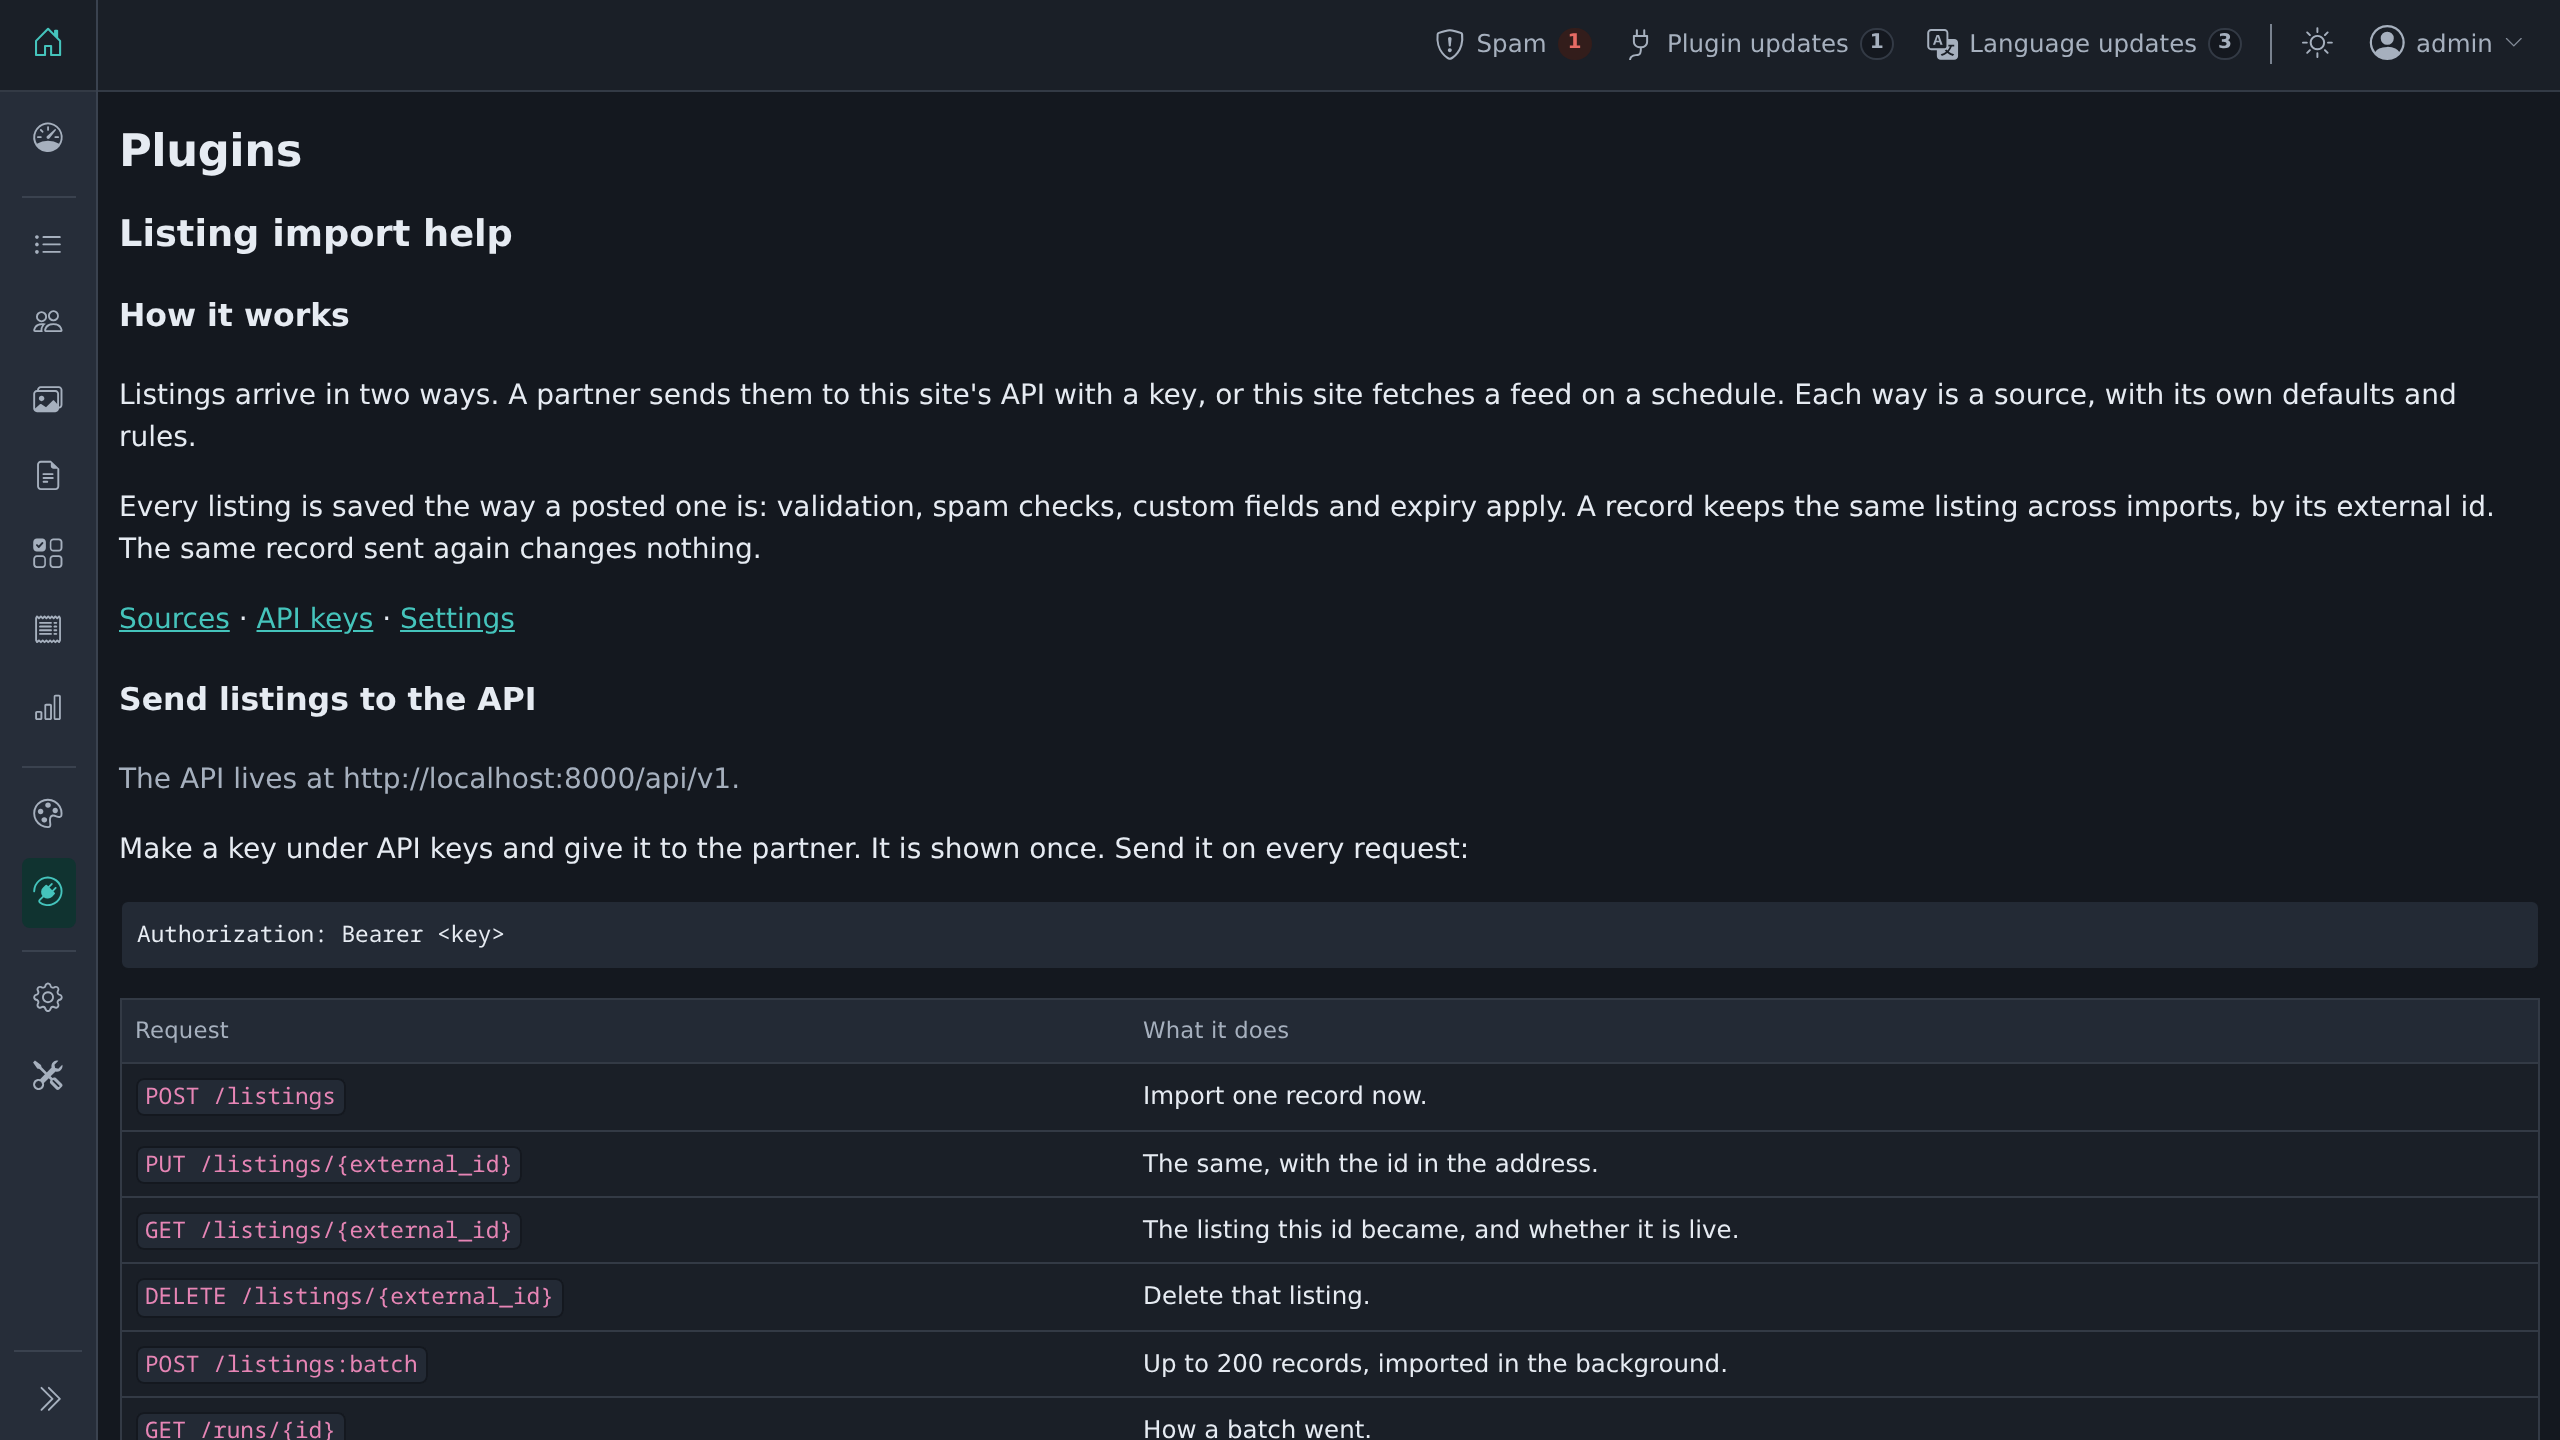
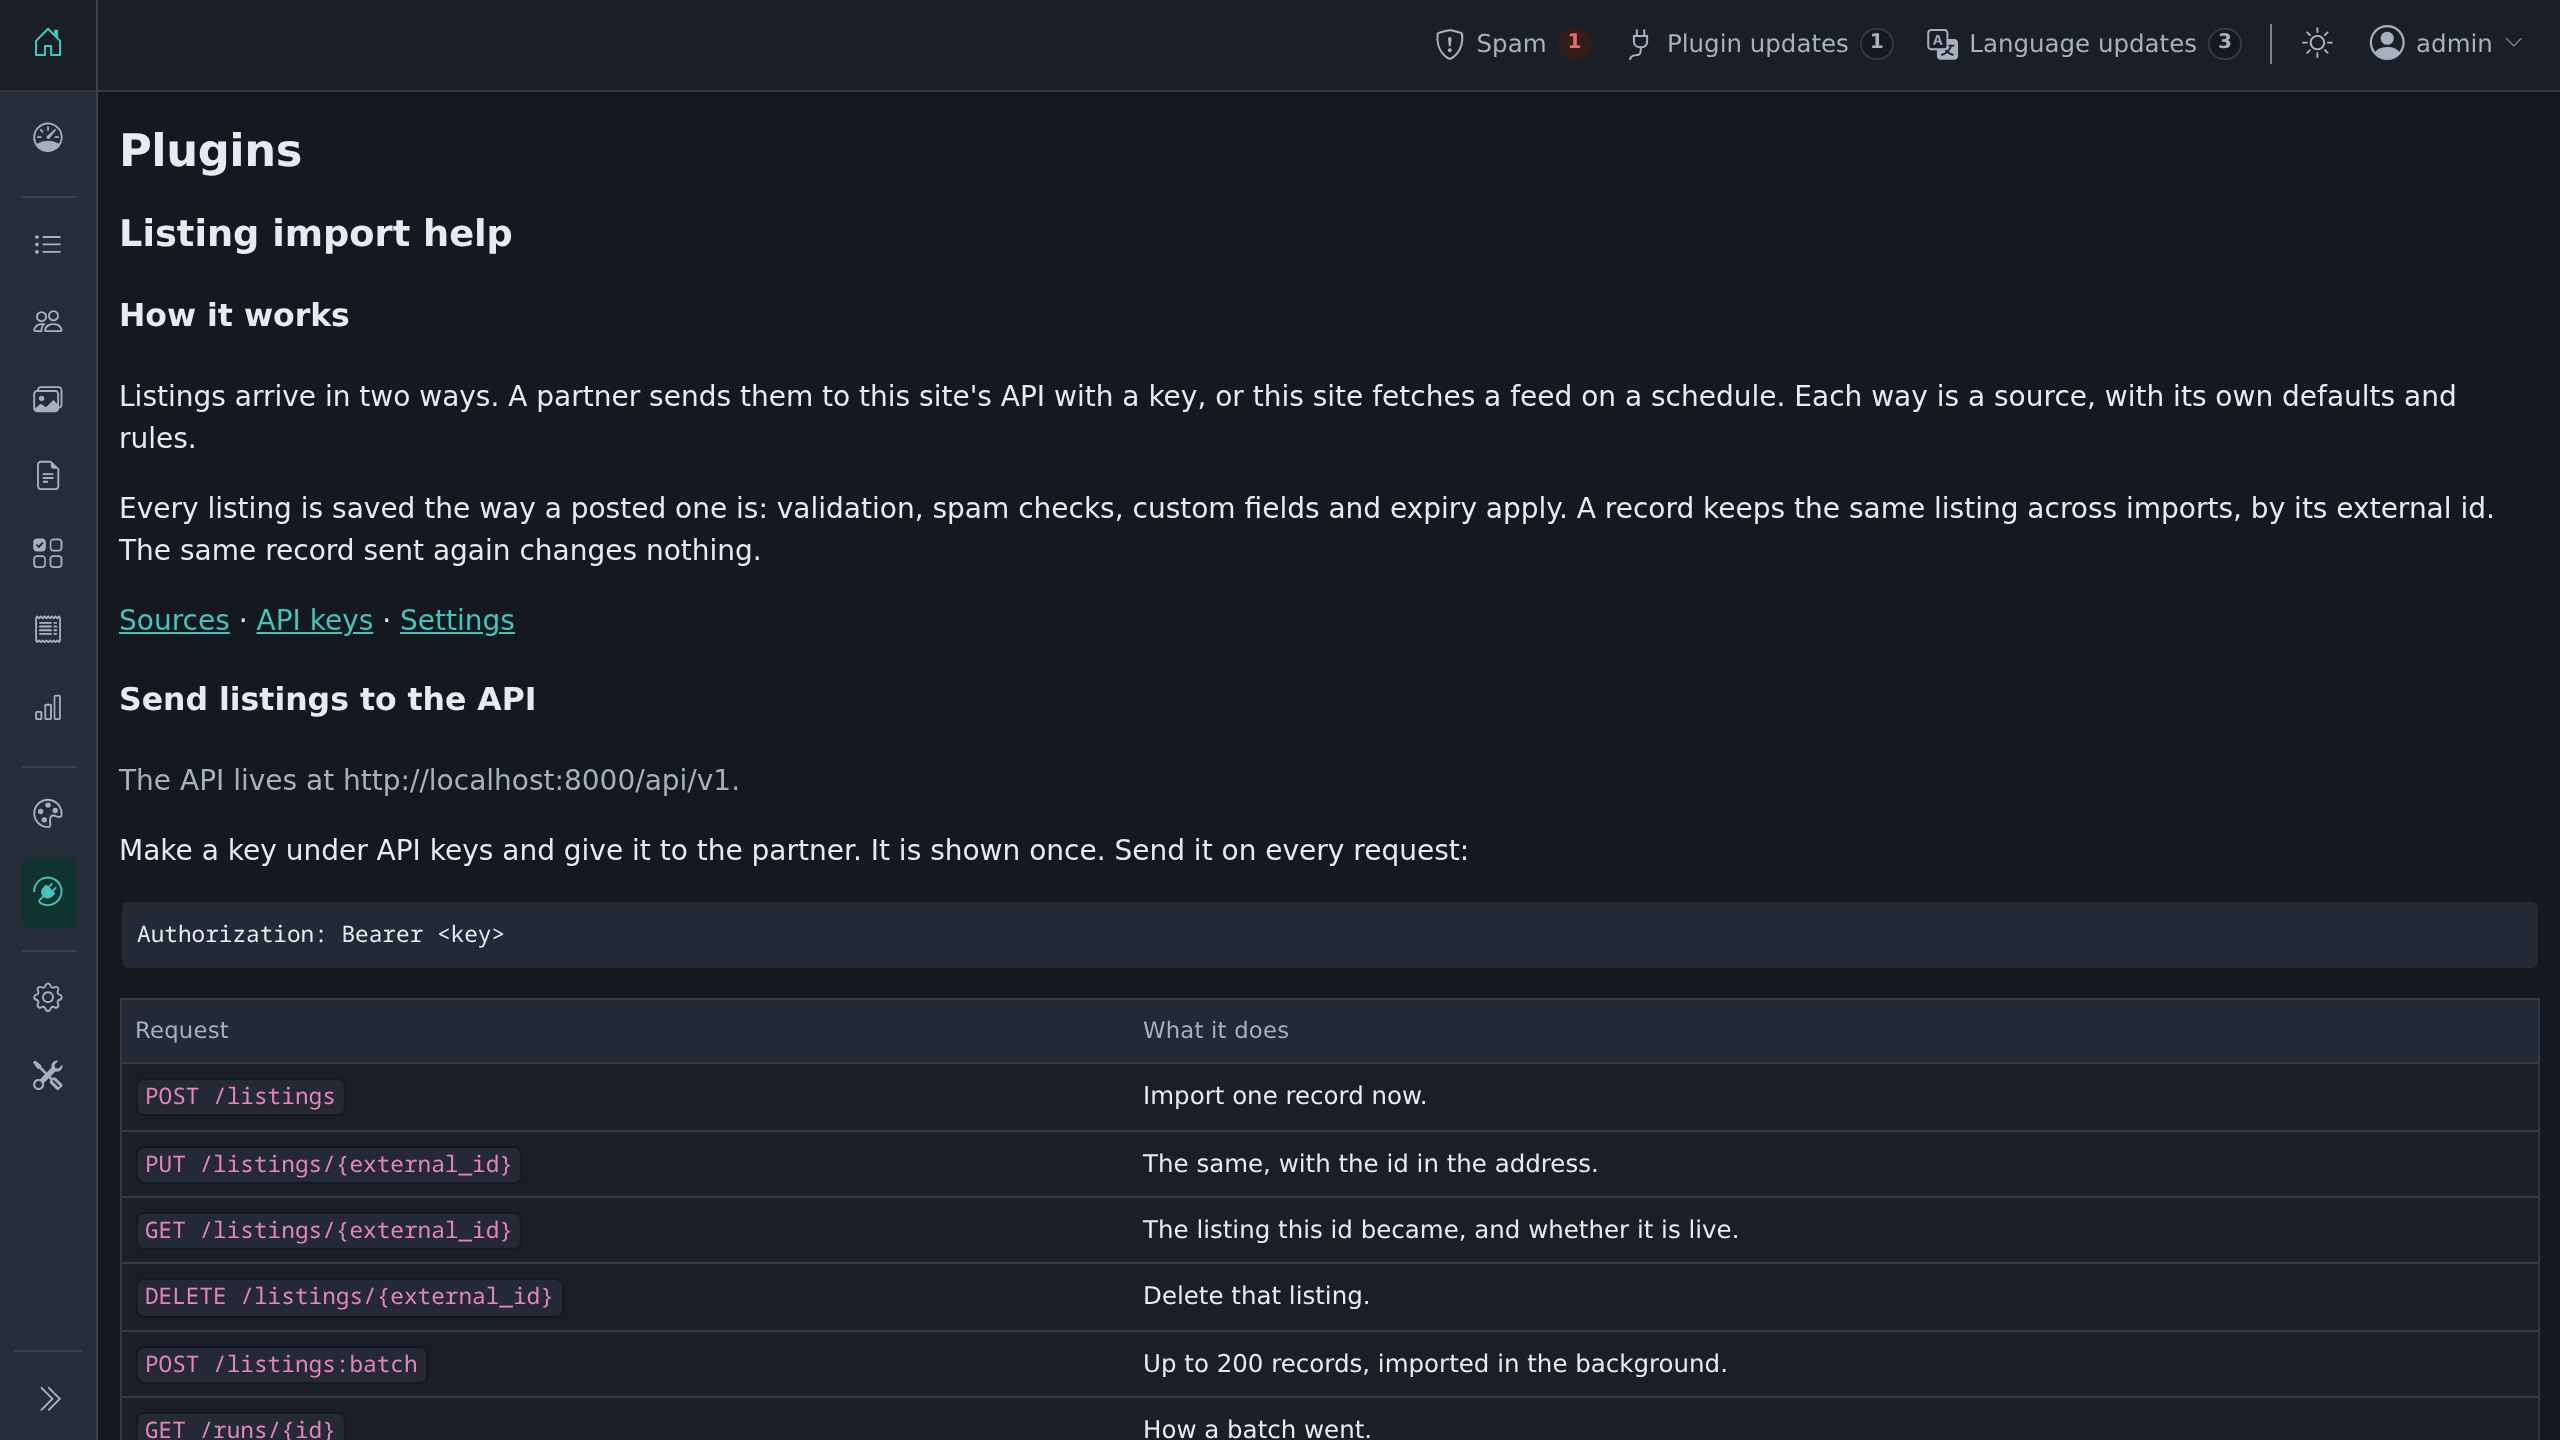
Help screen: a full record, curl examples with real answers, batches and runs, and every error code, in folding sections.

diff --git a/admin/help.php b/admin/help.php
@@ -64,21 +64,112 @@ osc_admin_form_section(__('Send listings to the API', 'listing-import'), array(
         array('GET /runs/{id}', __('How a batch went.', 'listing-import')),
         array('GET /openapi.json', __('The whole API as an OpenAPI file. No key needed.', 'listing-import')),
     )); ?>
-    <p><?php _e('The smallest record:', 'listing-import'); ?></p>
+    <p><?php _e('The smallest record. The external id is your own id: send it again and the same listing is updated. Always send the whole record; there is no partial update.', 'listing-import'); ?></p>
     <?php $code("{\n  \"external_id\": \"A-1001\",\n  \"title\": \"Blue bike\",\n  \"description\": \"A good bike, 21 gears.\",\n  \"category\": \"Vehicles > Bikes\"\n}"); ?>
-    <p><?php _e('Optional fields: price, location, contact, owner, images (up to 20 public addresses), fields (custom fields by slug), expires_at. A title and description may be given per language. Always send the whole record; there is no partial update.', 'listing-import'); ?></p>
 <?php
+osc_admin_disclosure_open(__('A record with every field', 'listing-import'));
+?>
+    <p><?php _e('Only external_id, title and description are required, and category when the source has no default one. A field the plugin does not know comes back as a warning; the record is still imported.', 'listing-import'); ?></p>
+    <?php $code(<<<'JSON'
+{
+  "external_id": "A-1001",
+  "title": {"en_US": "Blue bike", "de_DE": "Blaues Fahrrad"},
+  "description": {"en_US": "A good bike, 21 gears.", "de_DE": "Ein gutes Rad, 21 Gänge."},
+  "category": "Vehicles > Bikes",
+  "price": {"amount": "1.234,50", "currency": "EUR"},
+  "location": {
+    "country": "Germany", "region": "Bavaria", "city": "Munich",
+    "city_area": "Schwabing", "address": "Leopoldstraße 1", "zip": "80802",
+    "lat": 48.1624, "lng": 11.5865
+  },
+  "contact": {"name": "Sam Seller", "email": "sam@example.com", "phone": "+49 89 123456", "show_email": false},
+  "owner": {"email": "sam@example.com"},
+  "images": ["https://cdn.example.com/bike-1.jpg", "https://cdn.example.com/bike-2.jpg"],
+  "fields": {"colour": "Blue", "frame-size": 56},
+  "expires_at": "2026-12-31T23:59:59Z",
+  "published_at": "2026-09-01T10:00:00Z",
+  "source_url": "https://shop.example.com/bikes/a-1001"
+}
+JSON
+    ); ?>
+    <?php $table(array(__('Field', 'listing-import'), __('What it takes', 'listing-import')), array(
+        array('category', __('An id, a slug, a path such as "Vehicles > Bikes", or {"id"}, {"slug"}, {"path"} or {"label"}.', 'listing-import')),
+        array('price', __('amount as a number or as text such as "1.234,50"; currency as a three-letter code.', 'listing-import')),
+        array('location', __('Names are matched to the site\'s own countries, regions and cities. A place the site does not have is kept as text.', 'listing-import')),
+        array('owner', __('user_id or email of an account here. Used only when the source allows records to choose accounts.', 'listing-import')),
+        array('images', __('Up to 20 public http or https addresses. JPEG, PNG, GIF or WebP, 8 MB each. A refused image is a warning.', 'listing-import')),
+        array('fields', __('Custom field slug => text, number or true/false.', 'listing-import')),
+    )); ?>
+<?php
+osc_admin_disclosure_close();
+
+osc_admin_disclosure_open(__('Import one record', 'listing-import'));
+$code(sprintf(<<<'SH'
+curl -X POST %1$s/listings \
+  -H "Authorization: Bearer $KEY" \
+  -H "Content-Type: application/json" \
+  -d '{"external_id":"A-1001","title":"Blue bike","description":"A good bike, 21 gears.","category":"Vehicles > Bikes"}'
+SH
+, $apiUrl));
+?>
+    <p><?php _e('A new listing answers 201. The same record sent again answers 200 with the status unchanged, and a changed one with updated.', 'listing-import'); ?></p>
+    <?php $code('{"data":{"status":"created","external_id":"A-1001","item_id":294,"run_id":20}}'); ?>
+    <p><?php _e('Warnings, when there are any, come beside the data:', 'listing-import'); ?></p>
+    <?php $code('{"data":{"status":"created","external_id":"A-1001","item_id":294,"run_id":20},"warnings":{"colour":"Unknown field, ignored."}}'); ?>
+    <p><?php _e('PUT to /listings/{external_id} does the same, with the id in the address. An id in an address cannot hold a slash; encode other characters as usual.', 'listing-import'); ?></p>
+<?php
+osc_admin_disclosure_close();
+
+osc_admin_disclosure_open(__('Look up or delete a listing', 'listing-import'));
+$code(sprintf("curl %1\$s/listings/A-1001 \\\n  -H \"Authorization: Bearer \$KEY\"", $apiUrl));
+$code('{"data":{"external_id":"A-1001","item_id":294,"status":"active","url":"https://example.com/bikes/blue-bike_i294","last_seen":"2026-09-25 05:33:06","synced_at":"2026-09-25 05:33:06"}}');
+$code(sprintf("curl -X DELETE %1\$s/listings/A-1001 \\\n  -H \"Authorization: Bearer \$KEY\"", $apiUrl));
+$code('{"data":{"external_id":"A-1001","item_id":294,"deleted":true}}');
+?>
+    <p><?php _e('Deleting needs a key with the Remove listings permission.', 'listing-import'); ?></p>
+<?php
+osc_admin_disclosure_close();
+
+osc_admin_disclosure_open(__('Import many records at once', 'listing-import'));
+$code(sprintf(<<<'SH'
+curl -X POST %1$s/listings:batch \
+  -H "Authorization: Bearer $KEY" \
+  -H "Content-Type: application/json" \
+  -d '{"records":[{"external_id":"A-1001", ...}, {"external_id":"A-1002", ...}]}'
+SH
+, $apiUrl));
+?>
+    <p><?php _e('Up to 200 records. It answers 202 at once; the site\'s background jobs import them.', 'listing-import'); ?></p>
+    <?php $code('{"data":{"run_id":23,"records":2,"status":"queued"}}'); ?>
+    <p><?php _e('Ask how the run went. It needs a key with the Read import results permission.', 'listing-import'); ?></p>
+    <?php $code(sprintf("curl %1\$s/runs/23 \\\n  -H \"Authorization: Bearer \$KEY\"", $apiUrl)); ?>
+    <?php $code('{"data":{"run_id":23,"status":"finished","records":2,"counts":{"created":1,"updated":0,"unchanged":0,"retired":0,"failed":1},"started_at":"2026-09-25 05:33:06","finished_at":"2026-09-25 05:33:07","failures":[{"external_id":"A-1002","errors":{"description":"Required."}}]}}'); ?>
+<?php
+osc_admin_disclosure_close();
+
+osc_admin_disclosure_open(__('When a request is refused', 'listing-import'));
+?>
+    <p><?php _e('Every error has the same shape. For a record, fields says what is wrong with each one, so it can be fixed in one go.', 'listing-import'); ?></p>
+    <?php $code('{"error":{"code":"not_imported","message":"The record was not imported; see fields.","fields":{"description":"Required."}}}'); ?>
+<?php
+osc_admin_disclosure_close();
 
 osc_admin_form_section(__('Answers and limits', 'listing-import'), array('spaced' => true));
-$table(array(__('Status', 'listing-import'), __('Why', 'listing-import')), array(
-    array('401', __('No key, or a wrong one.', 'listing-import')),
-    array('403', __('The key lacks the permission.', 'listing-import')),
-    array('409', __('The key\'s source is missing or switched off.', 'listing-import')),
-    array('422', __('The record is wrong. The answer says which fields.', 'listing-import')),
-    array('429', __('Too many requests. Wait for the Retry-After seconds.', 'listing-import')),
+$table(array(__('Status', 'listing-import'), __('Code', 'listing-import'), __('Why', 'listing-import')), array(
+    array('400', 'invalid_json', __('The body is not JSON.', 'listing-import')),
+    array('401', 'unauthorized', __('No key, or a wrong one.', 'listing-import')),
+    array('403', 'forbidden', __('The key lacks the permission.', 'listing-import')),
+    array('404', 'not_found', __('No such endpoint, listing or run.', 'listing-import')),
+    array('405', 'method_not_allowed', __('The endpoint does not take that method.', 'listing-import')),
+    array('409', 'no_source', __('The key\'s source is missing or switched off.', 'listing-import')),
+    array('413', 'too_large, too_many_records', __('A body over 1 MB, or more than 200 records.', 'listing-import')),
+    array('415', 'unsupported_media_type', __('Send Content-Type: application/json.', 'listing-import')),
+    array('422', 'not_imported, invalid_batch, id_mismatch', __('The record is wrong. fields says where.', 'listing-import')),
+    array('429', 'rate_limited', __('Too many requests. Wait for the Retry-After seconds.', 'listing-import')),
+    array('500', 'not_deleted, server_error', __('Something failed on the site. Its error log says what.', 'listing-import')),
 ));
 ?>
-    <p><?php _e('Each key may send a set number of requests a minute; change it under Settings. An address that sends a wrong key 20 times in 15 minutes is refused for a while.', 'listing-import'); ?></p>
+    <p><?php _e('Each key may send a set number of requests a minute; change it under Settings. An address that sends a wrong key 20 times in 15 minutes is refused for a while. The whole API is described in openapi.json, which needs no key.', 'listing-import'); ?></p>
 <?php
 
 osc_admin_form_section(__('Fetch a feed', 'listing-import'), array('spaced' => true));
